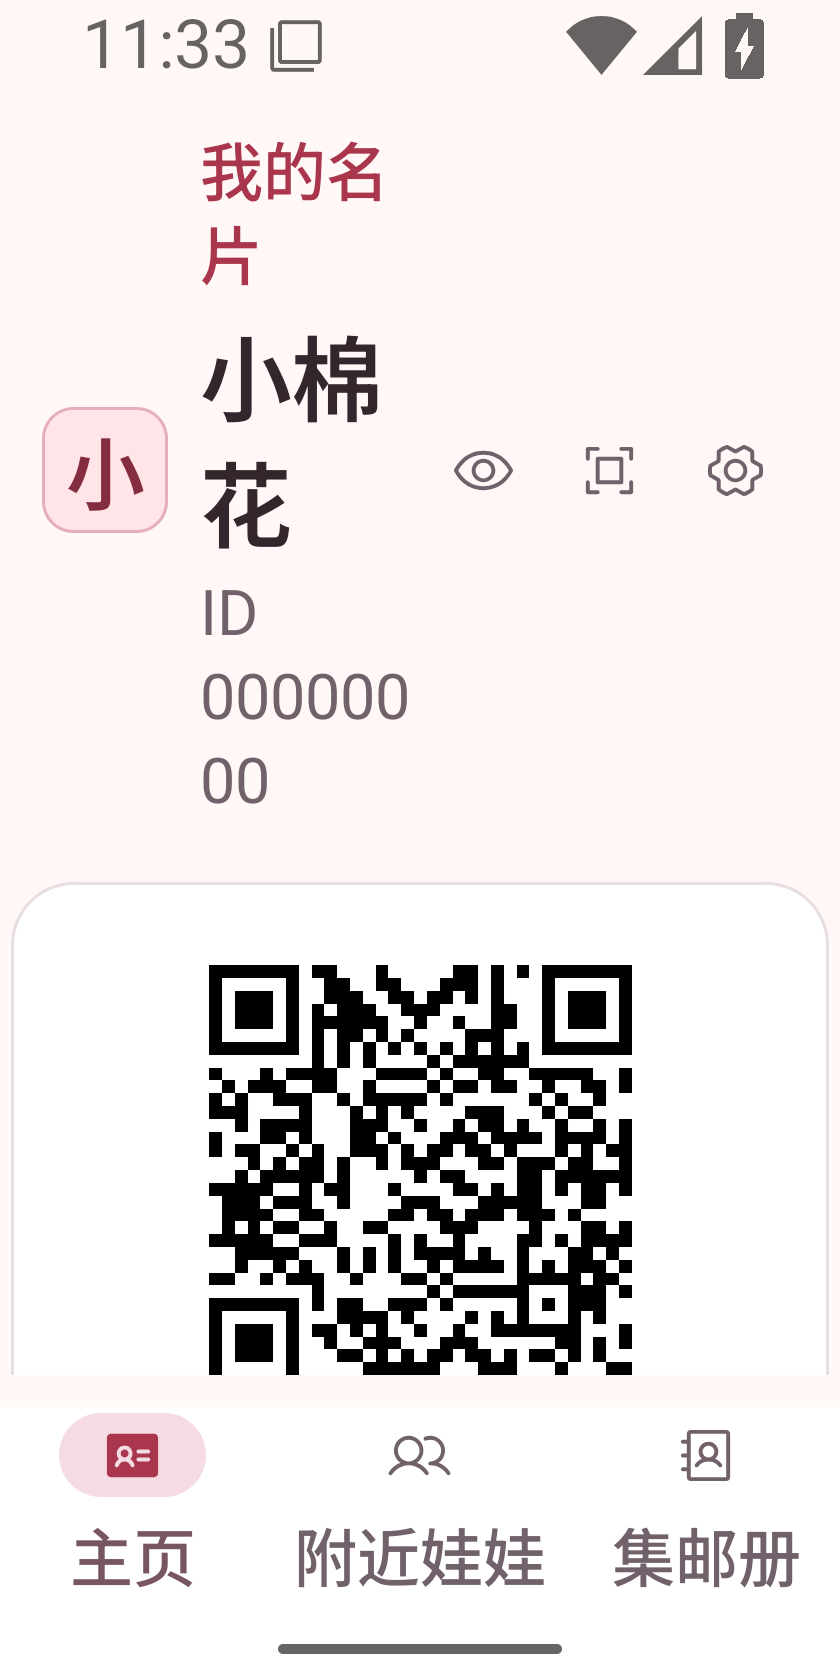
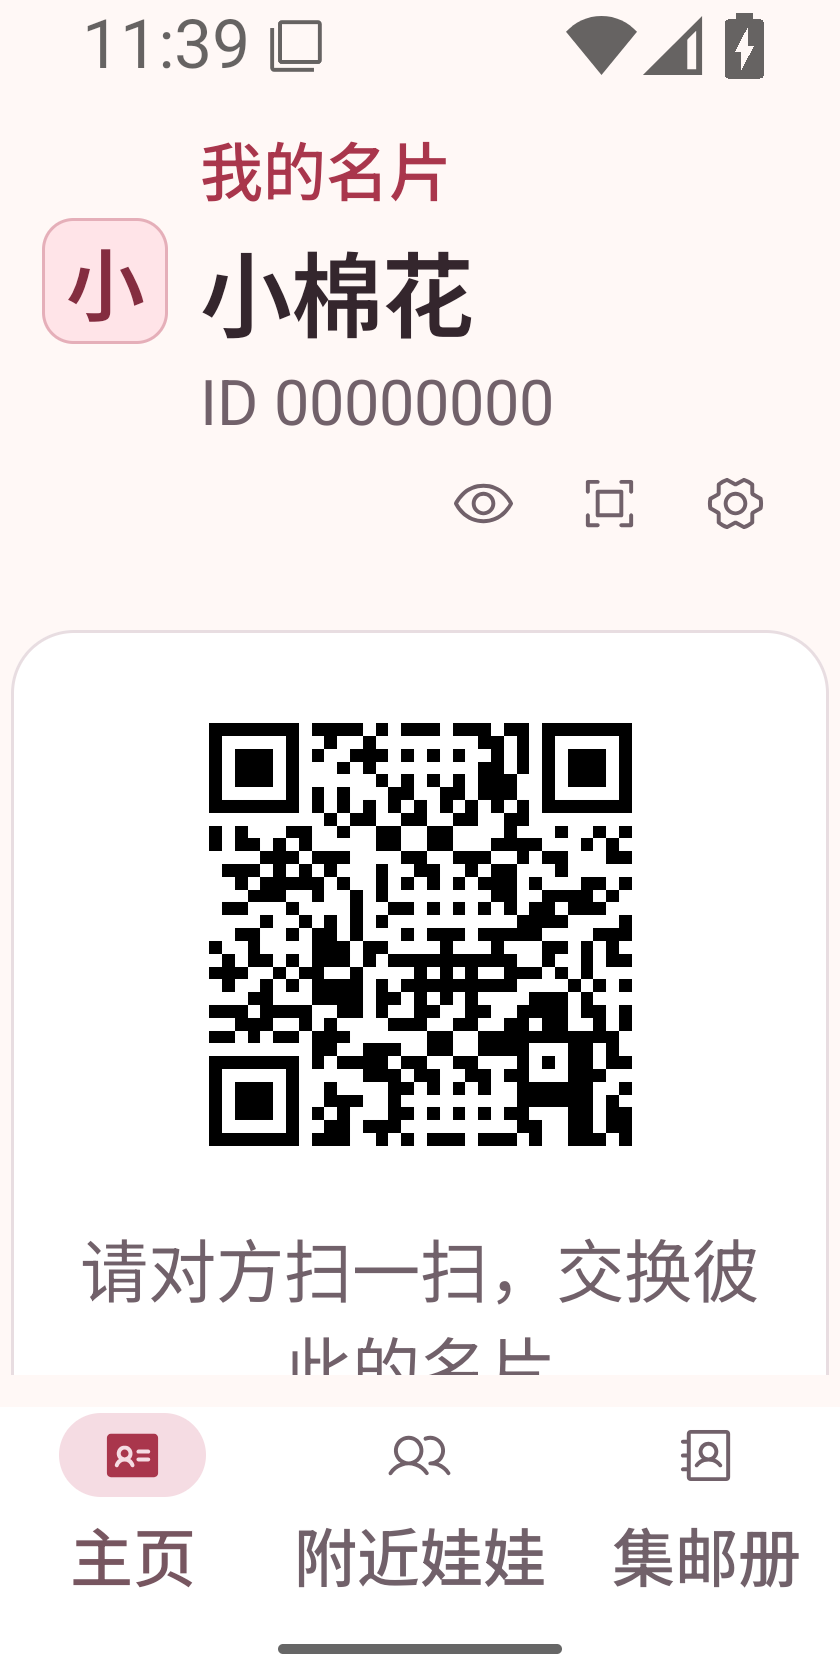
refactor(ui): refine card exchange hierarchy and phone illustration

diff --git a/app/src/main/kotlin/app/pengwa/ui/HomeScreen.kt b/app/src/main/kotlin/app/pengwa/ui/HomeScreen.kt
@@ -124,22 +124,31 @@ fun HomeScreen(
 @Composable
 internal fun HomeHeader(identity: Identity, onView: () -> Unit, onScan: () -> Unit, onSettings: () -> Unit) {
     val compact = with(LocalDensity.current) { LocalWindowInfo.current.containerSize.height.toDp() < 480.dp }
-    Row(
-        modifier = Modifier.fillMaxWidth().padding(horizontal = PageGutter, vertical = if (compact) 4.dp else 12.dp),
-        verticalAlignment = Alignment.CenterVertically,
-    ) {
-        CardAvatar(identity, Modifier.padding(end = 12.dp))
-        Column(Modifier.weight(1f)) {
-            if (!compact) Text(stringResource(R.string.my_card), style = MaterialTheme.typography.labelMedium, color = MaterialTheme.colorScheme.primary)
-            Text(identity.displayName, style = MaterialTheme.typography.headlineSmall, maxLines = if (compact) 1 else 2, overflow = TextOverflow.Ellipsis, modifier = Modifier.padding(top = 4.dp))
-            if (!compact) Text(stringResource(R.string.home_id_short, identity.id.toString().take(8)),
-                style = MaterialTheme.typography.bodySmall, color = MaterialTheme.colorScheme.onSurfaceVariant,
-                modifier = Modifier.padding(top = 4.dp))
+    val separateActions = LocalDensity.current.fontScale >= 1.5f && !compact
+    Column(Modifier.fillMaxWidth().padding(horizontal = PageGutter, vertical = if (compact) 4.dp else 12.dp)) {
+        Row(verticalAlignment = Alignment.CenterVertically) {
+            CardAvatar(identity, Modifier.padding(end = 12.dp))
+            Column(Modifier.weight(1f)) {
+                if (!compact) Text(stringResource(R.string.my_card), style = MaterialTheme.typography.labelMedium,
+                    color = MaterialTheme.colorScheme.primary, maxLines = 1)
+                Text(identity.displayName, style = MaterialTheme.typography.headlineSmall,
+                    maxLines = if (compact) 1 else 2, overflow = TextOverflow.Ellipsis,
+                    modifier = Modifier.padding(top = 4.dp))
+                if (!compact) Text(stringResource(R.string.home_id_short, identity.id.toString().take(8)),
+                    style = MaterialTheme.typography.bodySmall, color = MaterialTheme.colorScheme.onSurfaceVariant,
+                    maxLines = 1, overflow = TextOverflow.Ellipsis, modifier = Modifier.padding(top = 4.dp))
+            }
+            if (!separateActions) HomeHeaderActions(onView, onScan, onSettings)
         }
-        IconButton(onClick = onView) { PengWaIcon(PengWaIcons.View, contentDescription = stringResource(R.string.home_view_card)) }
-        IconButton(onClick = onScan) { PengWaIcon(PengWaIcons.Scan, contentDescription = stringResource(R.string.qr_scan)) }
-        IconButton(onClick = onSettings) { PengWaIcon(PengWaIcons.Settings, contentDescription = stringResource(R.string.home_settings)) }
+        if (separateActions) Row(Modifier.align(Alignment.End)) { HomeHeaderActions(onView, onScan, onSettings) }
     }
+}
+
+@Composable
+private fun HomeHeaderActions(onView: () -> Unit, onScan: () -> Unit, onSettings: () -> Unit) {
+    IconButton(onClick = onView) { PengWaIcon(PengWaIcons.View, contentDescription = stringResource(R.string.home_view_card)) }
+    IconButton(onClick = onScan) { PengWaIcon(PengWaIcons.Scan, contentDescription = stringResource(R.string.qr_scan)) }
+    IconButton(onClick = onSettings) { PengWaIcon(PengWaIcons.Settings, contentDescription = stringResource(R.string.home_settings)) }
 }
 
 /** Stops the outgoing hardware session before another destination starts its own. */

diff --git a/app/src/main/kotlin/app/pengwa/ui/NfcStatus.kt b/app/src/main/kotlin/app/pengwa/ui/NfcStatus.kt
@@ -17,6 +17,7 @@ import androidx.compose.runtime.getValue
 import androidx.compose.runtime.mutableStateOf
 import androidx.compose.runtime.remember
 import androidx.compose.runtime.setValue
+import androidx.compose.ui.draw.rotate
 import androidx.compose.ui.Alignment
 import androidx.compose.ui.Modifier
 import androidx.compose.ui.platform.LocalContext
@@ -64,25 +65,24 @@ internal fun NfcStatus(
     val taps = remember { DebugTapCounter() }
     val statusColors = LocalStatusColors.current
     val color = when (state) {
-        NfcState.Ready -> statusColors.success
+        NfcState.Ready -> MaterialTheme.colorScheme.primary
         NfcState.Disabled -> statusColors.warning
         NfcState.Unsupported -> MaterialTheme.colorScheme.onSurfaceVariant
     }
     Column(
-        modifier = modifier.fillMaxWidth().padding(vertical = 20.dp),
+        modifier = modifier.fillMaxWidth().padding(horizontal = 12.dp, vertical = 16.dp),
         verticalArrangement = Arrangement.spacedBy(8.dp),
         horizontalAlignment = Alignment.CenterHorizontally,
     ) {
         if (BuildConfig.DEBUG && onOpenLab != null) {
             IconButton(
                 onClick = { if (taps.tap(SystemClock.elapsedRealtime())) onOpenLab() },
-                modifier = Modifier.size(64.dp),
+                modifier = Modifier.size(112.dp, 72.dp),
             ) {
-                PengWaIcon(PengWaIcons.Tap, Modifier.size(64.dp), tint = color,
-                    contentDescription = stringResource(R.string.nfc_status_icon))
+                TouchPhones(color, Modifier, stringResource(R.string.nfc_status_icon))
             }
         } else {
-            PengWaIcon(PengWaIcons.Tap, Modifier.size(64.dp), tint = color)
+            TouchPhones(color)
         }
         Text(
             text = stringResource(when (state) {
@@ -90,7 +90,7 @@ internal fun NfcStatus(
                 NfcState.Disabled -> R.string.nfc_disabled
                 NfcState.Unsupported -> R.string.nfc_unsupported
             }),
-            style = MaterialTheme.typography.titleLarge, color = color,
+            style = MaterialTheme.typography.titleMedium, color = MaterialTheme.colorScheme.onSurface,
             textAlign = TextAlign.Center,
         )
         Text(
@@ -107,5 +107,27 @@ internal fun NfcStatus(
         if (state == NfcState.Disabled) {
             TextButton(onClick = onOpenSettings) { Text(stringResource(R.string.nfc_open_settings)) }
         }
+    }
+}
+
+/** Two phones leaning together; decorative because the adjacent text explains the gesture. */
+@Composable
+private fun TouchPhones(
+    color: androidx.compose.ui.graphics.Color,
+    modifier: Modifier = Modifier,
+    contentDescription: String? = null,
+) {
+    Box(modifier.size(112.dp, 72.dp), contentAlignment = Alignment.Center) {
+        PengWaIcon(
+            PengWaIcons.Phone,
+            Modifier.align(Alignment.CenterStart).offset(x = 2.dp).size(64.dp).rotate(16f),
+            contentDescription = contentDescription,
+            tint = color,
+        )
+        PengWaIcon(
+            PengWaIcons.Phone,
+            Modifier.align(Alignment.CenterEnd).offset(x = (-2).dp).size(64.dp).rotate(-16f),
+            tint = color,
+        )
     }
 }

diff --git a/app/src/main/kotlin/app/pengwa/ui/FaceToFacePage.kt b/app/src/main/kotlin/app/pengwa/ui/FaceToFacePage.kt
@@ -13,6 +13,7 @@ import androidx.compose.ui.graphics.FilterQuality
 import androidx.compose.ui.graphics.asImageBitmap
 import androidx.compose.foundation.layout.Arrangement
 import androidx.compose.foundation.layout.BoxWithConstraints
+import androidx.compose.foundation.layout.Row
 import androidx.compose.foundation.layout.Column
 import androidx.compose.foundation.layout.aspectRatio
 import androidx.compose.foundation.layout.fillMaxSize
@@ -24,6 +25,7 @@ import androidx.compose.foundation.layout.systemBarsPadding
 import androidx.compose.foundation.layout.widthIn
 import androidx.compose.foundation.rememberScrollState
 import androidx.compose.foundation.verticalScroll
+import androidx.compose.material3.HorizontalDivider
 import androidx.compose.material3.AlertDialog
 import androidx.compose.material3.MaterialTheme
 import androidx.compose.material3.Surface
@@ -201,7 +203,7 @@ private fun ExchangeQrCard(
         shape = MaterialTheme.shapes.large, color = MaterialTheme.colorScheme.surface,
         border = BorderStroke(1.dp, MaterialTheme.colorScheme.outlineVariant),
     ) {
-        Column(Modifier.padding(if (showHint) 12.dp else 8.dp), horizontalAlignment = Alignment.CenterHorizontally,
+        Column(Modifier.padding(if (showHint) 16.dp else 8.dp), horizontalAlignment = Alignment.CenterHorizontally,
             verticalArrangement = Arrangement.spacedBy(8.dp)) {
             Column(
                 Modifier.fillMaxWidth().clickable(role = Role.Button, onClick = onExpand),
@@ -211,6 +213,18 @@ private fun ExchangeQrCard(
                 QrCodeView(remember(identity) { QrPayload.encode(identity) }, if (showHint) Modifier.widthIn(max = 200.dp).fillMaxWidth() else Modifier.size(codeSize))
                 if (showHint) Text(stringResource(R.string.qr_hint), modifier = Modifier.widthIn(max = 340.dp), style = MaterialTheme.typography.bodyMedium,
                     color = MaterialTheme.colorScheme.onSurfaceVariant, textAlign = TextAlign.Center)
+            }
+            if (showHint) {
+                Row(
+                    Modifier.widthIn(max = 240.dp).fillMaxWidth().padding(top = 8.dp),
+                    verticalAlignment = Alignment.CenterVertically,
+                    horizontalArrangement = Arrangement.spacedBy(12.dp),
+                ) {
+                    HorizontalDivider(Modifier.weight(1f), color = MaterialTheme.colorScheme.outlineVariant)
+                    Text(stringResource(R.string.exchange_or), style = MaterialTheme.typography.bodySmall,
+                        color = MaterialTheme.colorScheme.onSurfaceVariant)
+                    HorizontalDivider(Modifier.weight(1f), color = MaterialTheme.colorScheme.outlineVariant)
+                }
             }
             footer()
         }

diff --git a/core/designsystem/src/main/kotlin/app/pengwa/ui/components/PengWaIcons.kt b/core/designsystem/src/main/kotlin/app/pengwa/ui/components/PengWaIcons.kt
@@ -20,6 +20,7 @@ object PengWaIcons {
     val BookFill = R.drawable.ph_address_book_fill
     val Lab = R.drawable.ph_flask
     val LabFill = R.drawable.ph_flask_fill
+    val Phone = R.drawable.ph_device_mobile
     val Tap = R.drawable.ph_contactless_payment
     val Camera = R.drawable.ph_camera
     val Bluetooth = R.drawable.ph_bluetooth

diff --git a/docs/screenshots/card-qr-actions/README.md b/docs/screenshots/card-qr-actions/README.md
@@ -3,8 +3,18 @@
 - 删除底部通栏“扫一扫”，改为右上角的取景框式扫码图标（Phosphor Scan）；保留 48dp 触控区域和“扫一扫”无障碍名称。
 - 编辑入口收进名片预览：点击眼睛图标“查看我的卡片”，再点“编辑”；保存后返回预览。同步更新首次创建名片的说明。
 - 二维码与碰一碰提示放在同一个圆角气泡内，气泡左右边距为 4dp；二维码本身保留四模块识别静区，取消原来额外的圆角白色内框。仅二维码区域可点击放大，碰一碰提示与设置按钮不会触发放大。
-- 碰一碰位于气泡内部的二维码下方，使用 64dp 大图标和居中文字，不单独增加状态卡，显示“碰一碰，交换名片”及贴近手机 NFC 区域的说明；关闭、不支持 NFC 时显示对应指引。
+- 碰一碰位于气泡内部的二维码下方，使用双手机靠近的 112 × 72dp 矢量示意和居中文字，不单独增加状态卡，显示“碰一碰，交换名片”及贴近手机 NFC 区域的说明；关闭、不支持 NFC 时显示对应指引。统一使用主题玫瑰色、18sp 标题与 4/8dp 留白，以“或”分隔两种交换方式，精简说明。
 - 移除“出示／读取”模式选择，不增加开始按钮。双方保持主页打开，由应用自动协调 NFC 角色；引导图解同步更新。
+
+## 本轮视觉细化
+
+保留同一气泡、左右 4dp 边距和二维码下方的碰一碰提示。将绿色支付式图标改为主题色双手机示意，缩小标题，精简说明；二维码识别静区和自动 NFC 交互保持不变。
+
+| 同一主页场景 | 调整前（371323c） | 调整后 |
+|---|---|---|
+| 浅色 | ![](before-polish-home-light.png) | ![](after-home-light.png) |
+| 深色 | ![](before-polish-home-dark.png) | ![](after-home-dark.png) |
+| 320dp／2 倍字体，操作图标另起一行 | ![](before-polish-home-large-text.png) | ![](after-home-large-text.png) |
 
 ## 运行截图
 

diff --git a/third_party/README.md b/third_party/README.md
@@ -2,7 +2,7 @@
 
 Source: https://github.com/phosphor-icons/core/tree/2b75f3ad12b420c9504ef05df8d2564a28f8500e
 
-Only the 15 Regular and 4 Fill icons used by PengWa are bundled as Android Vector Drawables in `core/designsystem/src/main/res/drawable/ph_*.xml`. Original 256 × 256 path geometry is preserved. MIT license: [phosphor-LICENSE.txt](phosphor-LICENSE.txt).
+Only the 16 Regular and 4 Fill icons used by PengWa are bundled as Android Vector Drawables in `core/designsystem/src/main/res/drawable/ph_*.xml`. Original 256 × 256 path geometry is preserved. MIT license: [phosphor-LICENSE.txt](phosphor-LICENSE.txt).
 
 The same license is packaged in the APK at `assets/licenses/phosphor-LICENSE.txt`.
 
